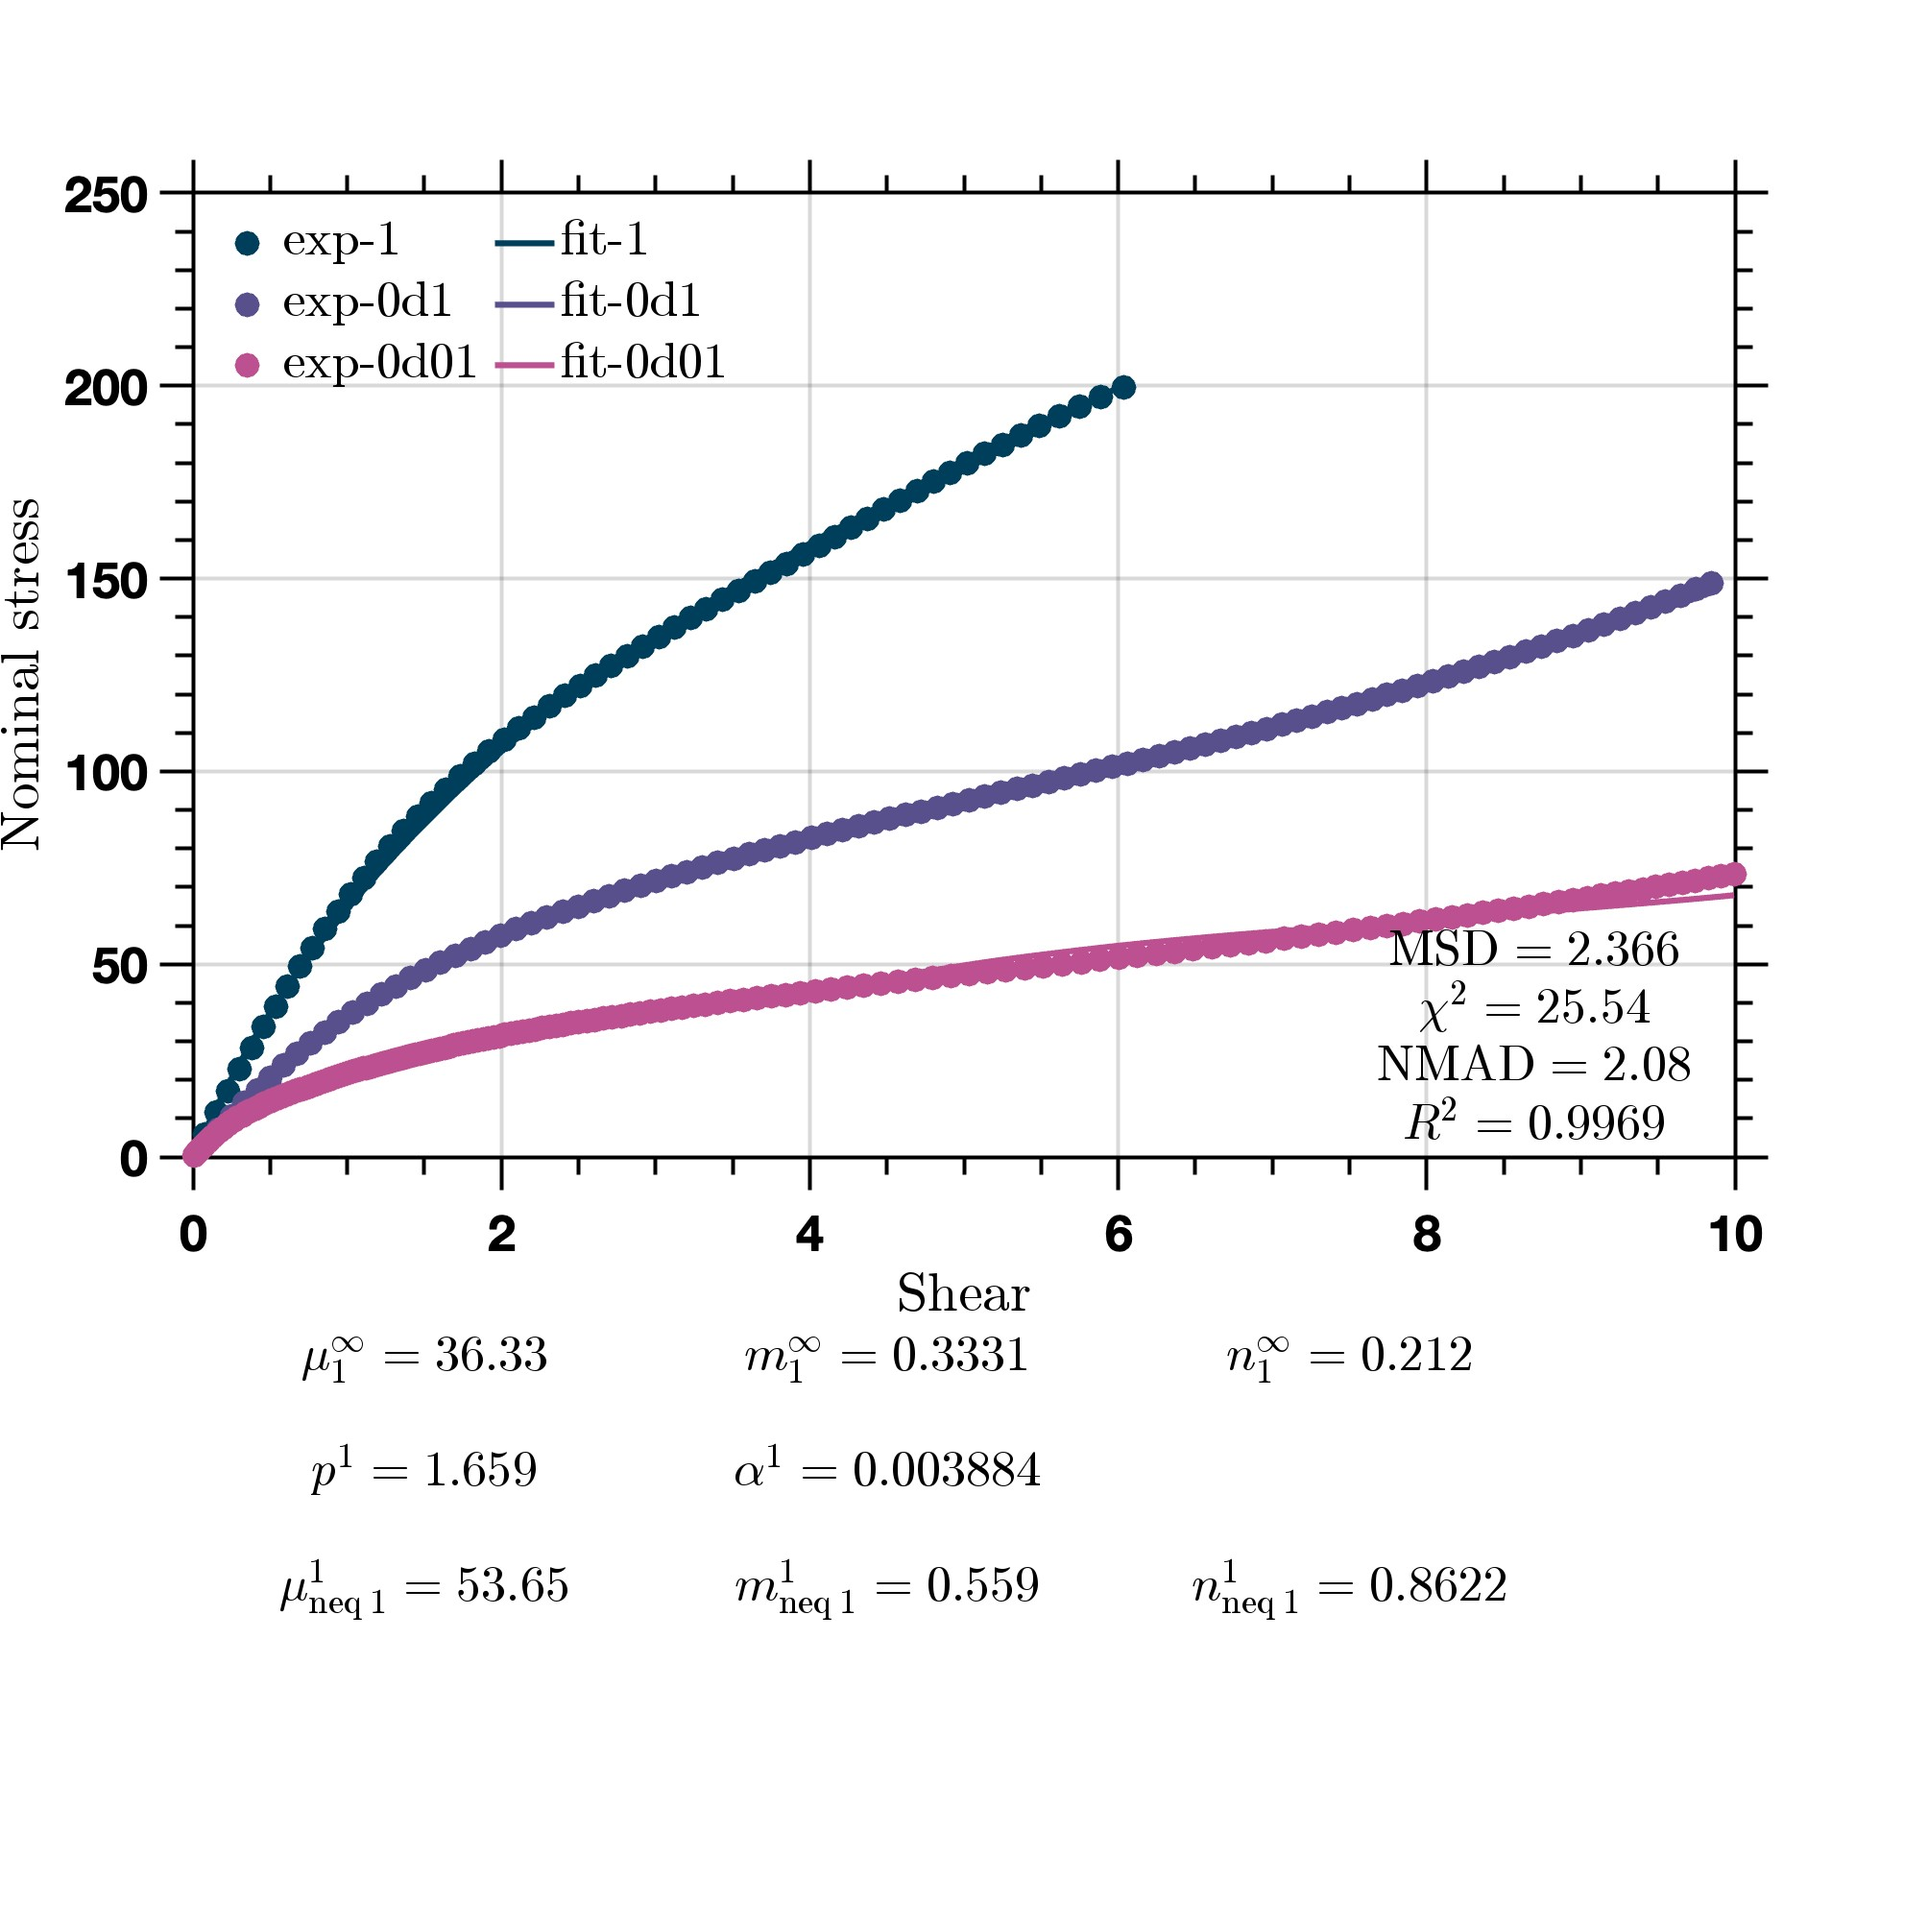
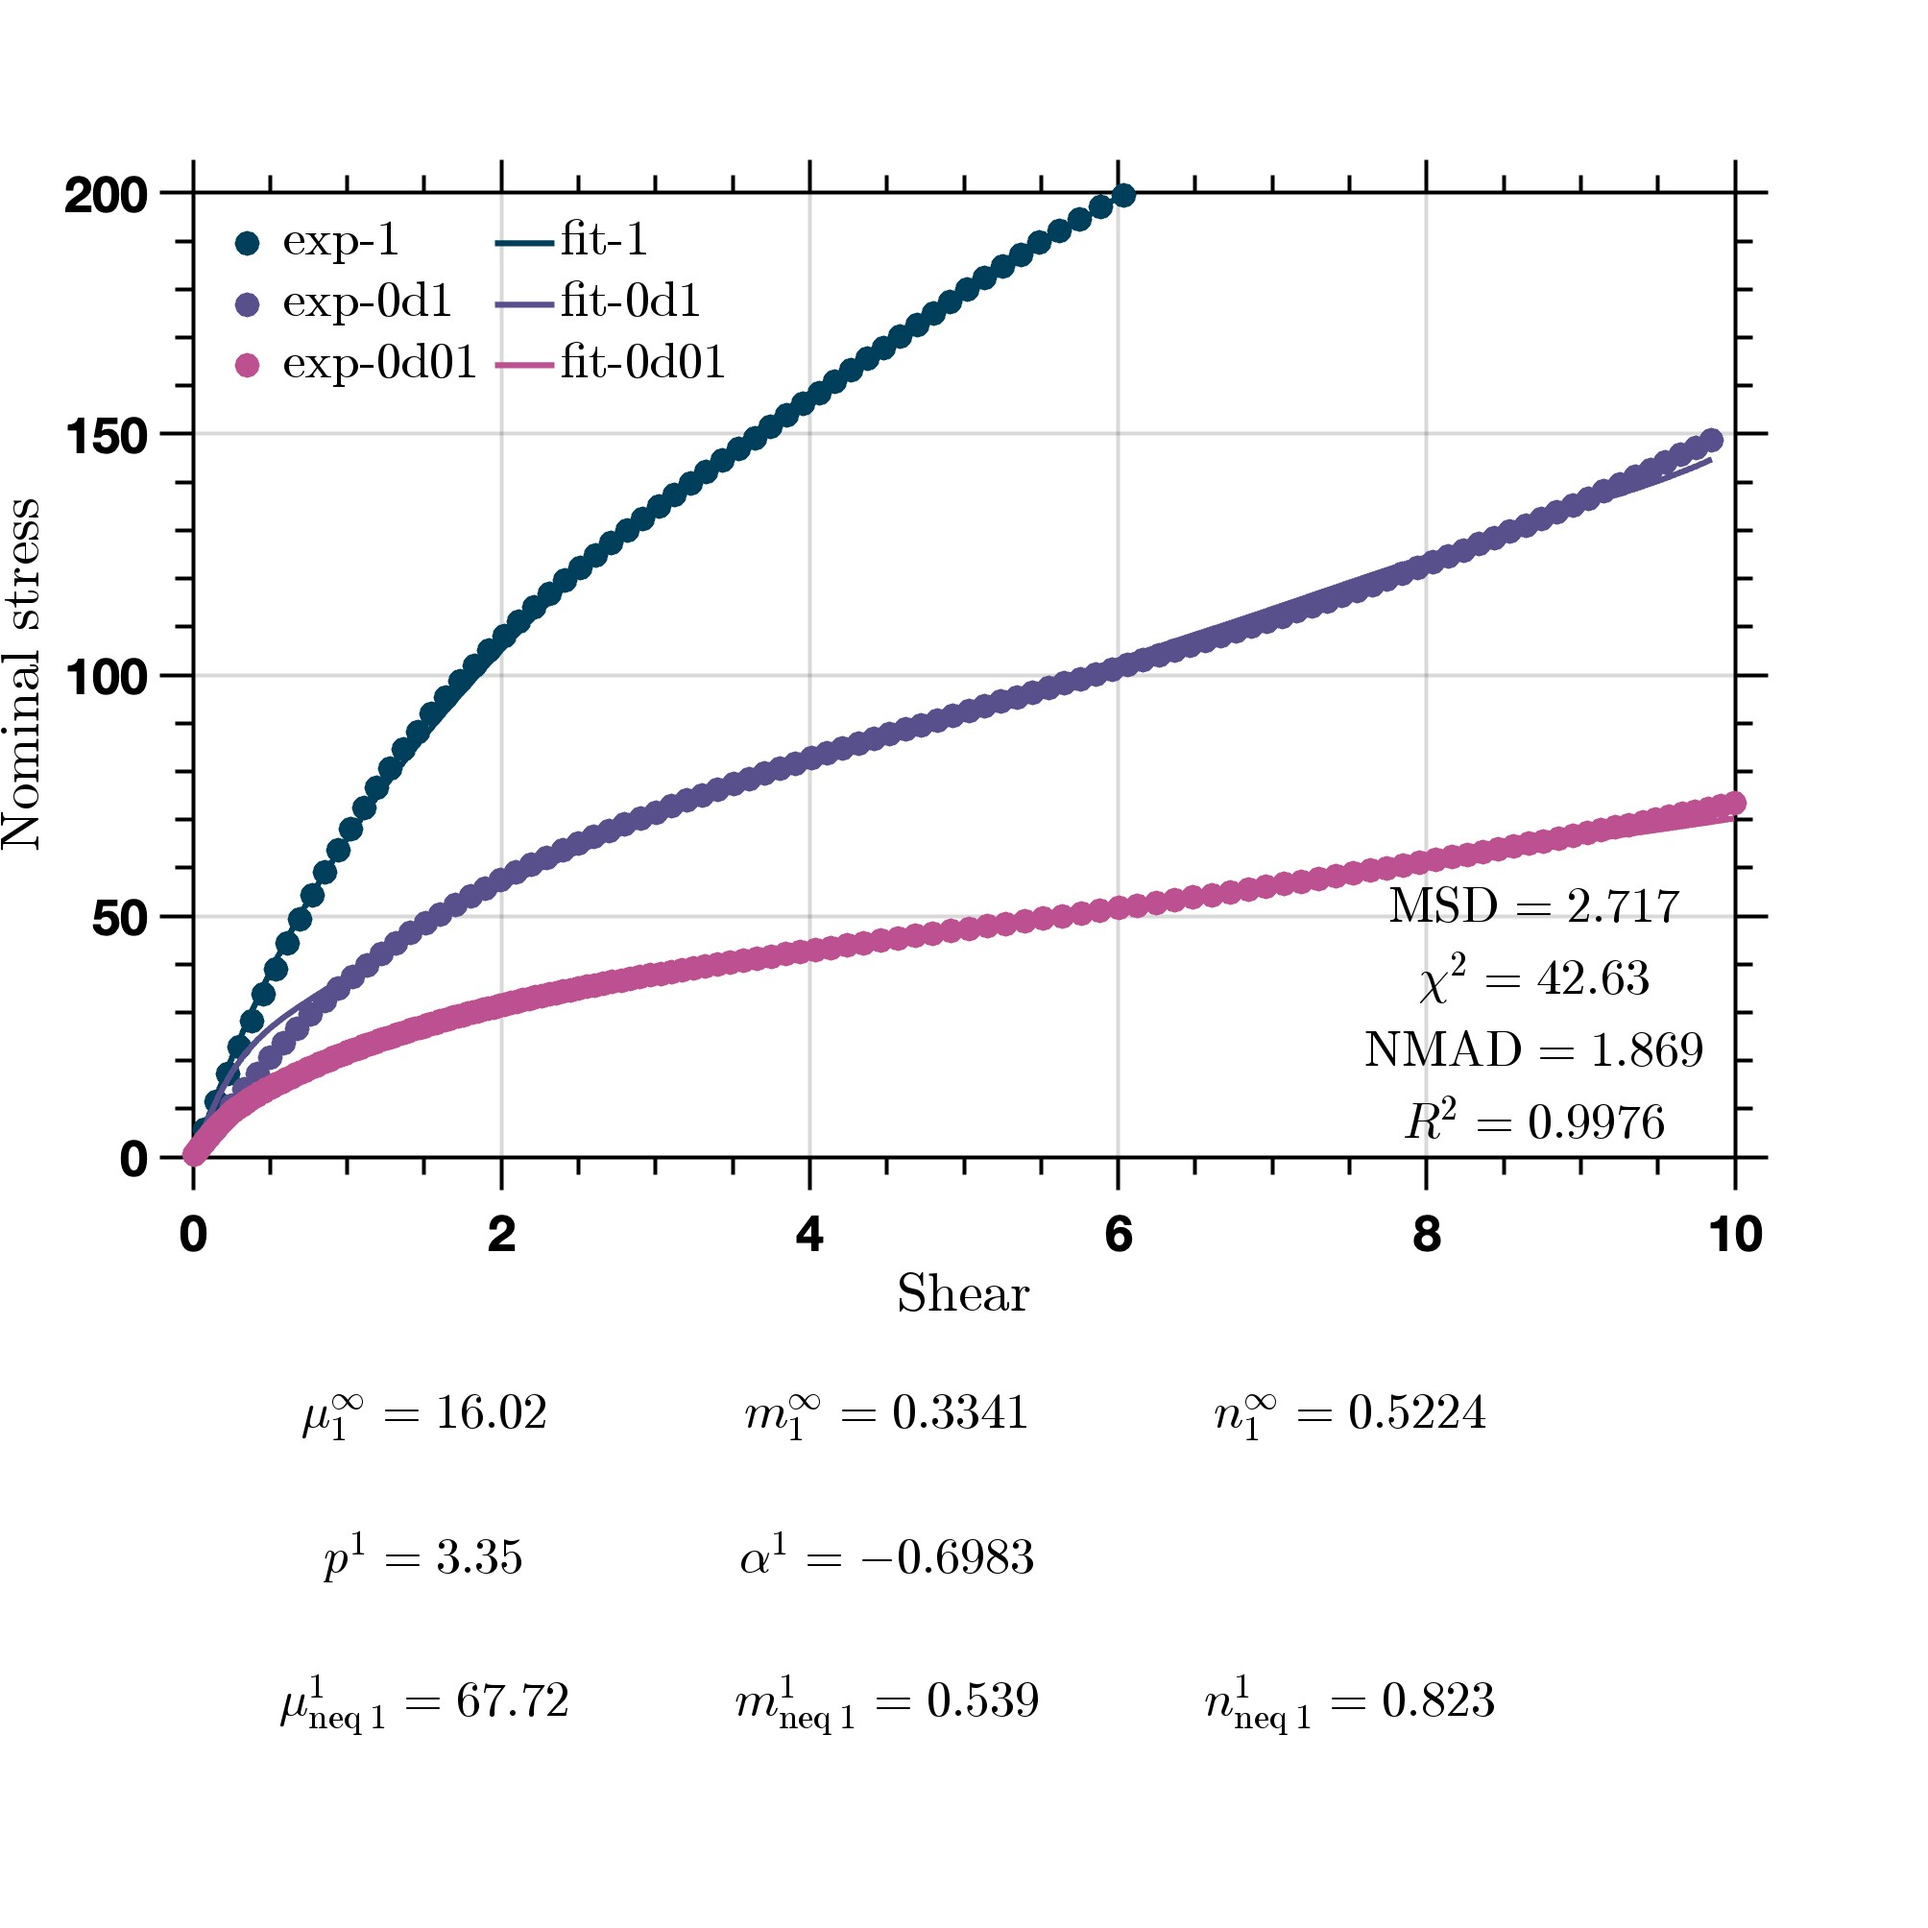
update

diff --git a/additive_CR_non_Newtonian_shear/src/get_Ev_t.m b/additive_CR_non_Newtonian_shear/src/get_Ev_t.m
@@ -1,24 +1,6 @@
 function out = get_Ev_t(mu_neq, m_neq, n_neq, p, alpha, Ft, time)
 out = zeros(size(Ft));
-
-% for ii = 1:length(time)
-%     if ii == 1
-%         dt = time(1);
-%         Ev_old = zeros(3,3);
-%         C_old = eye(3);
-%     else
-%         dt = time(ii) - time(ii-1);
-%         Ev_old = out(:,:,ii-1);
-%         F_old = Ft(:,:,ii-1);
-%         C_old = Ft' * Ft;
-%     end
-%     C_new = Ft(:,:,ii)' * Ft(:,:,ii);
-%     E_new = get_CR_strain(m_neq, n_neq, C_new);
-%     eta_d = get_eta_d(mu_neq, m_neq, n_neq, p, alpha, C_old, Ev_old);
-%     out(:,:,ii) = (mu_neq * dt / (eta_d + mu_neq * dt)) .* E_new;
-%     out(:,:,ii) = out(:,:,ii) + (eta_d / (eta_d + mu_neq * dt)) .* Ev_old;
-% end
-
+% Forward Euler
 % for ii = 1:length(time)
 %     if ii == 1
 %         dt = time(1);
@@ -35,6 +17,26 @@ out = zeros(size(Ft));
 %     out(:,:,ii) = mu_neq / eta_d * dt .* (E_old - Ev_old) + Ev_old;
 % end
 
+% Modified Euler
+for ii = 1:length(time)
+    if ii == 1
+        dt = time(1);
+        Ev_old = zeros(3,3);
+        C_old = eye(3);
+    else
+        dt = time(ii) - time(ii-1);
+        Ev_old = out(:,:,ii-1);
+        F_old = Ft(:,:,ii-1);
+        C_old = F_old' * F_old;
+    end
+    C_new = Ft(:,:,ii)' * Ft(:,:,ii);
+    E_new = get_CR_strain(m_neq, n_neq, C_new);
+    eta_d = get_eta_d(mu_neq, m_neq, n_neq, p, alpha, C_old, Ev_old);
+    out(:,:,ii) = (mu_neq * dt / (eta_d + mu_neq * dt)) .* E_new;
+    out(:,:,ii) = out(:,:,ii) + (eta_d / (eta_d + mu_neq * dt)) .* Ev_old;
+end
+
+% Exponential integral + Forward Euler
 % for ii = 1:length(time)
 %     if ii == 1
 %         dt = time(1);
@@ -50,43 +52,4 @@ out = zeros(size(Ft));
 %     E_old = get_CR_strain(m_neq, n_neq, C_old);
 %     out(:,:,ii) = exp(-mu_neq*dt/eta_d) .* Ev_old + exp(-mu_neq*dt/eta_d) * mu_neq / eta_d * dt .* E_old;
 % end
-
-% for ii = 1:length(time)
-%     if ii == 1
-%         dt = time(1);
-%         F_new = Ft(:,:,ii);
-%         C_new = F_new' * F_new;
-%         Ev_old = zeros(3,3);
-%     else
-%         dt = time(ii) - time(ii-1);
-%         F_new = Ft(:,:,ii);
-%         C_new = F_new' * F_new;
-%         Ev_old = out(:,:,ii-1);
-%     end
-%     eta_d = get_eta_d(mu_neq, m_neq, n_neq, p, alpha, C_new, Ev_old);
-%     E_new = get_CR_strain(m_neq, n_neq, C_new);
-%     out(:,:,ii) = exp(-mu_neq*dt/eta_d) .* Ev_old + mu_neq / eta_d * dt .* E_new;
-% end
-
-for ii = 1:length(time)
-    if ii == 1
-        dt = time(1);
-        C_old = eye(3);
-        F_new = Ft(:,:,ii);
-        C_new = F_new' * F_new;
-        Ev_old = zeros(3,3);
-    else
-        dt = time(ii) - time(ii-1);
-        F_old = Ft(:,:,ii-1);
-        C_old = F_old' * F_old;
-        F_new = Ft(:,:,ii);
-        C_new = F_new' * F_new;
-        Ev_old = out(:,:,ii-1);
-    end
-    eta_d = get_eta_d(mu_neq, m_neq, n_neq, p, alpha, C_old, Ev_old);
-    E_old = get_CR_strain(m_neq, n_neq, C_old);
-    E_new = get_CR_strain(m_neq, n_neq, C_new);
-    out(:,:,ii) = exp(-mu_neq*dt/eta_d) .* Ev_old + 0.5 * mu_neq / eta_d * dt .* ( exp(-mu_neq*dt/eta_d) .* E_old + E_new );
-end
-
 end

diff --git a/additive_CR_non_Newtonian_shear/src/get_eta_d.m b/additive_CR_non_Newtonian_shear/src/get_eta_d.m
@@ -1,5 +1,5 @@
 function out = get_eta_d(mu_neq, m_neq, n_neq, p, alpha, C, Ev)
 out = 10.0^p;
 T_neq = get_T_neq(mu_neq, m_neq, n_neq, C, Ev);
-out = out * (get_norm(T_neq)+0.01)^alpha;
+out = out * (get_norm(T_neq)+1.0)^alpha;
 end
